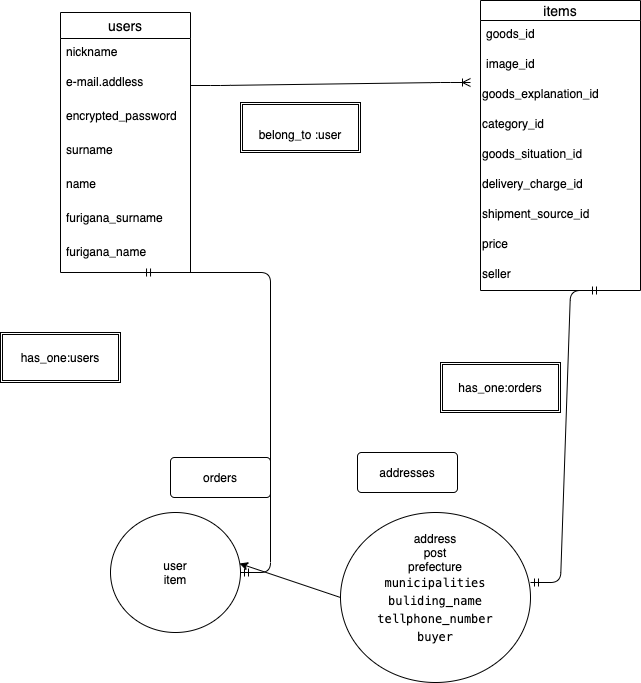
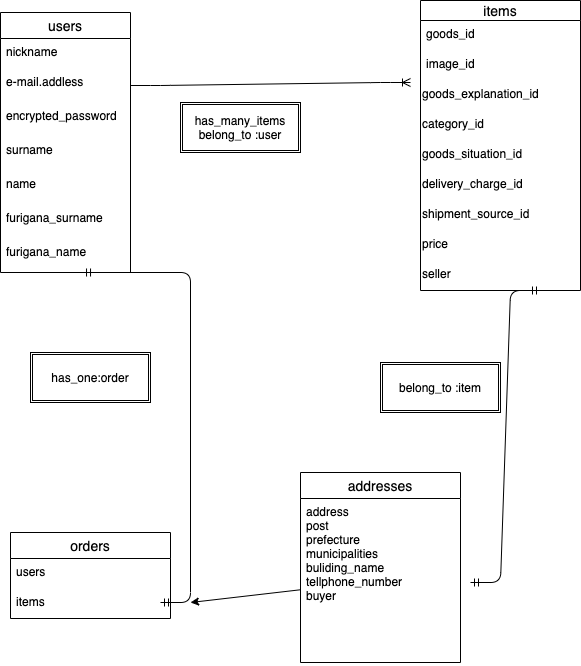
db設計５

diff --git a/README.md b/README.md
@@ -10,22 +10,22 @@
 |furigana_name|string|null: false|
 |date_of_birth|date|null: false|
 ##Association
-has_many :orders
+has_many :items
+belong_to :users
 
 ##items テーブル
-|image_id|integer|null: false, foreign_key: true|
-|goods_id|integer|null: false, foreign_key: true|
-|goods_explanation_id|integer|null: false, foreign_key: true|
+|goods_id|string|null: false|
+|goods_explanation_id|string|null: false|
 |category_id|integer|null: false, foreign_key: true|
-|goods_situation_id|integer|null: false, foreign_key: true|
-|delivery_charge_id|integer|null: false, foreign_key: true|
-|shipment_source_id|integer|null: false, foreign_key: true|
-|shipping_days_id|integer|null: false, foreign_key: true|
-|price|integer|null: false, foreign_key: true|
+|goods_situation_id|integer|null: false|
+|delivery_charge_id|integer|null: false|
+|shipment_source_id|integer|null: false|
+|shipping_days_id|integer|null: false|
+|price|integer|null: false|
 |seller|string|null: false, foreign_key: true|
 
 ##Association
-belongs_to :user
+belongs_to :item
 ##addresses テーブル
 |address|string|null: false, foreign_key: true |
 |post|string|null: false|
@@ -36,12 +36,12 @@ belongs_to :user
 |telephone_number|string|null: false|
 |buyer|string|null: false, foreign_key: true |
 ##Association
-has_one :orders
+has_one :order
 ##ordersテーブル
 |user|references|null: false, foreign_key: true |
 |item|references|null: false, foreign_key: true |
 ##Association
 has_one :item
-belongs_to :users
-has_one :addresses
-belong_to :orders
+belong_to :item
+belongs_to :user
+has_one :address
